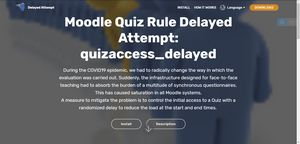
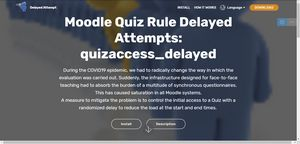
Github urls updated.

diff --git a/install.html b/install.html
@@ -58,14 +58,14 @@
                         HOW IT WORKS</a></li><li class="nav-item dropdown"><a class="nav-link link text-white dropdown-toggle display-4" href="../play_activity.html" data-toggle="dropdown-submenu" aria-expanded="false"><span class="mbri-globe mbr-iconfont mbr-iconfont-btn"></span>
                         
                         Language</a><div class="dropdown-menu"><a class="text-white dropdown-item display-4" href="es/index.html">Español</a></div></li></ul>
-            <div class="navbar-buttons mbr-section-btn"><a class="btn btn-sm btn-primary display-4" href="https://github.com/juacas/quizaccess_activatedelayedattempt" target="_blank">
+            <div class="navbar-buttons mbr-section-btn"><a class="btn btn-sm btn-primary display-4" href="https://github.com/juacas/quizaccess_delayed" target="_blank">
                     
                     DOWNLOAD</a></div>
         </div>
     </nav>
 </section>
 
-<section class="engine"><a href="https://mobirise.info/g">build a site for free</a></section><section class="header1 cid-rOtVgn2C4D mbr-parallax-background" id="header1-p">
+<section class="engine"><a href="https://mobirise.info/d">free site maker</a></section><section class="header1 cid-rOtVgn2C4D mbr-parallax-background" id="header1-p">
 
     
 
@@ -75,7 +75,7 @@
     <div class="container">
         <div class="row justify-content-md-center">
             <div class="mbr-white col-md-10">
-                <h1 class="mbr-section-title align-center mbr-bold pb-3 mbr-fonts-style display-2">Install Access Rule Delayed Attempt quizaccess_delayed</h1>
+                <h1 class="mbr-section-title align-center mbr-bold pb-3 mbr-fonts-style display-2">Install Access Rule Delayed Attempts quizaccess_delayed</h1>
                 <h3 class="mbr-section-subtitle align-center mbr-light pb-3 mbr-fonts-style display-7">Auto Activate the Quiz Attempt Button with a randomized delay to reduce the load at the start of the quizes.</h3>
                 
                 
@@ -128,7 +128,7 @@
                             </div>                
 
                             <div class="card-box">
-                                <p class="block-text mbr-fonts-style display-7">You can download it from the <a href="https://github.com/juacas/quizaccess_activatedelayedattempt" target="_blank">GitHub repository</a>&nbsp;in ZIP format or by cloning the repository (recommended).<br>The branch "master" contains the most stable version of the plugin.<br>The "develop" branch has the most recent version with new features. This branch is just for developing and testing.<br><br><br></p>
+                                <p class="block-text mbr-fonts-style display-7">You can download it from the <a href="https://github.com/juacas/quizaccess_delayed" target="_blank">GitHub repository</a>&nbsp;in ZIP format or by cloning the repository (recommended).<br>The branch "master" contains the most stable version of the plugin.<br>The "develop" branch has the most recent version with new features. This branch is just for developing and testing.<br><br><br></p>
                             </div>
                         </div>
                     </div>

diff --git a/index.html b/index.html
@@ -63,14 +63,14 @@
                         HOW IT WORKS</a></li><li class="nav-item dropdown"><a class="nav-link link text-white dropdown-toggle display-4" href="../play_activity.html" data-toggle="dropdown-submenu" aria-expanded="false"><span class="mbri-globe mbr-iconfont mbr-iconfont-btn"></span>
                         
                         Language</a><div class="dropdown-menu"><a class="text-white dropdown-item display-4" href="es/index.html">Español</a></div></li></ul>
-            <div class="navbar-buttons mbr-section-btn"><a class="btn btn-sm btn-primary display-4" href="https://github.com/juacas/quizaccess_activatedelayedattempt" target="_blank">
+            <div class="navbar-buttons mbr-section-btn"><a class="btn btn-sm btn-primary display-4" href="https://github.com/juacas/quizaccess_delayed" target="_blank">
                     
                     DOWNLOAD</a></div>
         </div>
     </nav>
 </section>
 
-<section class="engine"><a href="https://mobirise.info/o">free portfolio website templates</a></section><section class="cid-rOtZKhcqys mbr-fullscreen mbr-parallax-background" id="header2-19">
+<section class="engine"><a href="https://mobirise.info/c">free site builder</a></section><section class="cid-rOtZKhcqys mbr-fullscreen mbr-parallax-background" id="header2-19">
 
     
 
@@ -79,7 +79,7 @@
     <div class="container align-center">
         <div class="row justify-content-md-center">
             <div class="mbr-white col-md-10">
-                <h1 class="mbr-section-title mbr-bold pb-3 mbr-fonts-style display-1">Moodle Quiz Rule Delayed Attempt: quizaccess_delayed</h1>
+                <h1 class="mbr-section-title mbr-bold pb-3 mbr-fonts-style display-1">Moodle Quiz Rule Delayed Attempts: quizaccess_delayed</h1>
                 
                 <p class="mbr-text pb-3 mbr-fonts-style display-5">During the COVID19 epidemic, we had to radically change the way in which the evaluation was carried out. Suddenly, the infrastructure designed for face-to-face teaching had to absorb the burden of a multitude of synchronous questionnaires. This has caused saturation in all Moodle systems.<br>A measure to mitigate the problem is to control the initial access to a Quiz with a randomized delay to reduce the load at the start and end times.&nbsp;<br></p>
                 <div class="mbr-section-btn"><a class="btn btn-md btn-white-outline display-4" href="install.html">Install</a>

diff --git a/description.html b/description.html
@@ -62,14 +62,14 @@
                         HOW IT WORKS</a></li><li class="nav-item dropdown"><a class="nav-link link text-white dropdown-toggle display-4" href="../play_activity.html" data-toggle="dropdown-submenu" aria-expanded="false"><span class="mbri-globe mbr-iconfont mbr-iconfont-btn"></span>
                         
                         Language</a><div class="dropdown-menu"><a class="text-white dropdown-item display-4" href="es/index.html">Español</a></div></li></ul>
-            <div class="navbar-buttons mbr-section-btn"><a class="btn btn-sm btn-primary display-4" href="https://github.com/juacas/quizaccess_activatedelayedattempt" target="_blank">
+            <div class="navbar-buttons mbr-section-btn"><a class="btn btn-sm btn-primary display-4" href="https://github.com/juacas/quizaccess_delayed" target="_blank">
                     
                     DOWNLOAD</a></div>
         </div>
     </nav>
 </section>
 
-<section class="engine"><a href="https://mobirise.info/o">portfolio site templates</a></section><section class="header1 cid-rOkwJUMgUh mbr-parallax-background" id="header1-1">
+<section class="engine"><a href="https://mobirise.info/d">free site maker</a></section><section class="header1 cid-rOkwJUMgUh mbr-parallax-background" id="header1-1">
 
     
 
